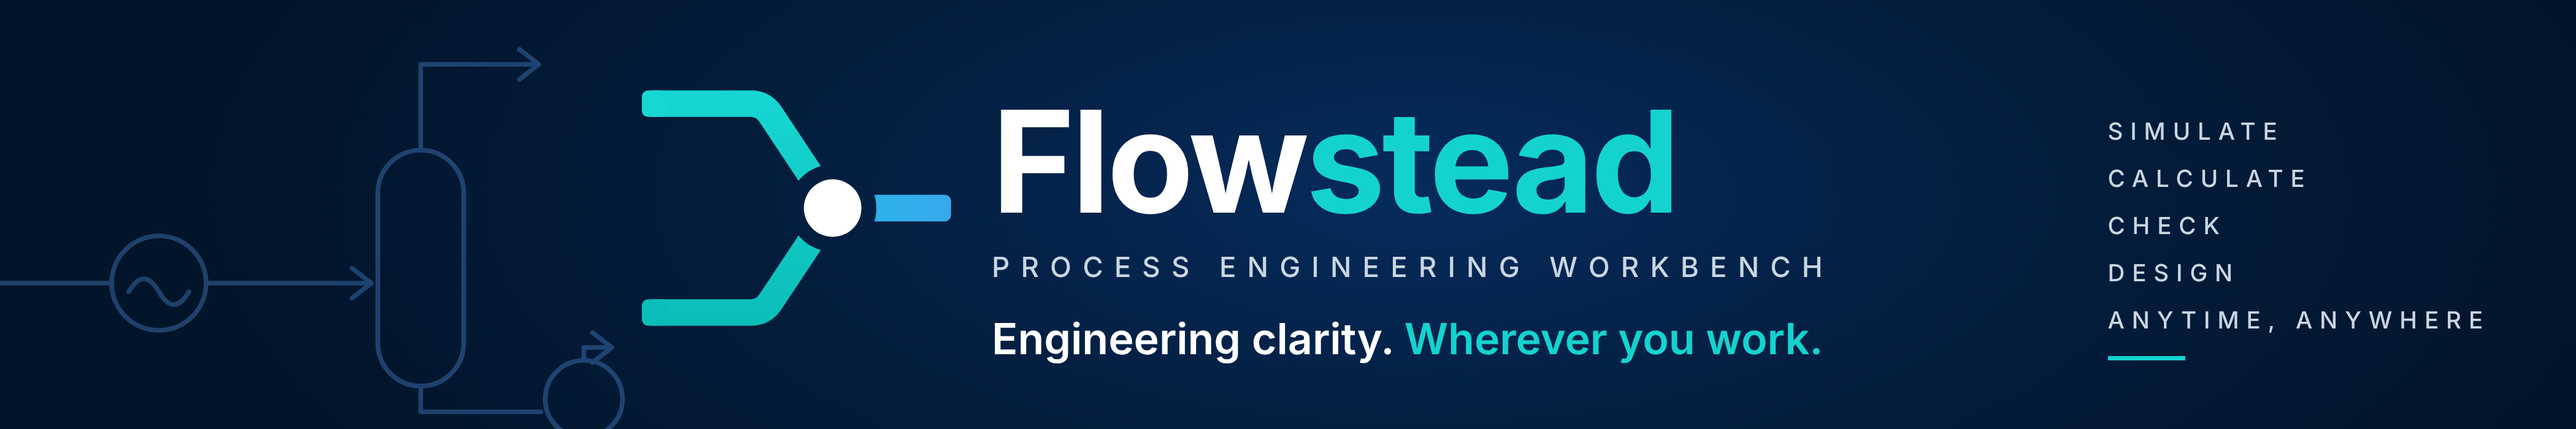
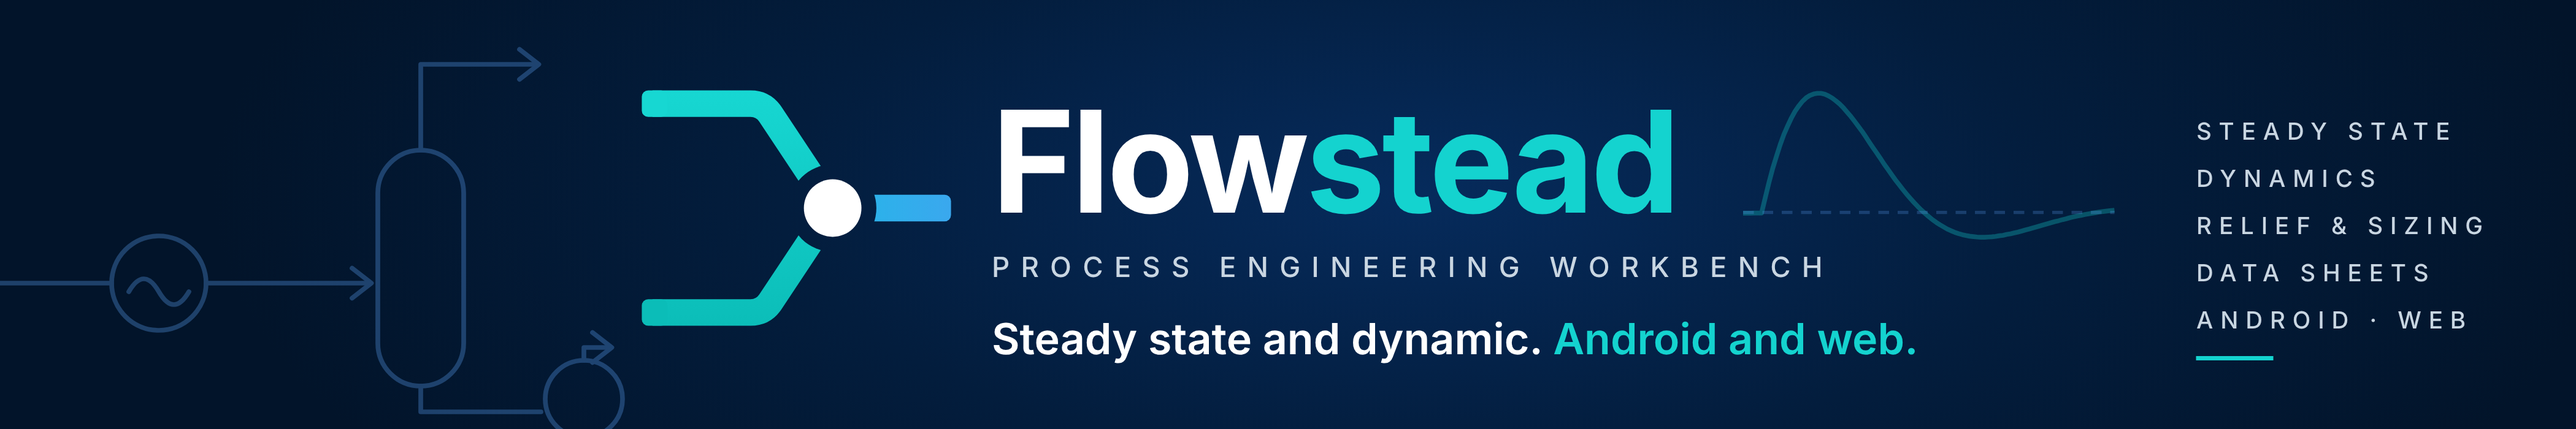
LinkedIn: page tagline and About (steady state and dynamic, Android and web) and a new cover
Claude-Session: https://claude.ai/code/session_01HZRB96Aqg1V3VJki8fwms8

diff --git a/docs/linkedin/src/cover.html b/docs/linkedin/src/cover.html
@@ -1,5 +1,5 @@
 <!doctype html>
-<!-- LinkedIn page cover, 6:1 (rendered 4200×700). Desktop puts the page logo over the bottom-left and phones crop the sides,
+<!-- LinkedIn page cover (steady state and dynamic, Android and web), 6:1 (rendered 4200×700). Desktop puts the page logo over the bottom-left and phones crop the sides,
      so the lockup sits right of centre and the left quarter carries only background lines. Render: node src/render.js -->
 <html><head><meta charset="utf-8"><script src="mark.js"></script><style>
 @font-face{font-family:Inter;font-weight:700;src:url(../../../android/app/src/main/res/font/inter_bold.ttf)}
@@ -32,12 +32,14 @@ html,body{margin:0;width:1200px;height:200px;overflow:hidden;background:#02172C}
     <path d="M272 168v-6h12"/><path d="M276 155l9 7-9 7"/>
   </g>
 </svg>
+<!-- The engine's own separator-pressure response to a feed step (benchmarks/20-separator-dynamics), faint behind the lockup's right edge. -->
+<svg class="flow" width="1200" height="200" viewBox="0 0 1200 200" fill="none"><path d="M812.0,99.4 L813.7,99.4 L815.5,99.4 L817.2,99.3 L818.9,99.3 L820.6,99.3 L822.4,91.8 L824.1,84.9 L825.8,78.5 L827.6,72.7 L829.3,67.4 L831.0,62.7 L832.8,58.6 L834.5,55.0 L836.2,51.9 L838.0,49.3 L839.7,47.2 L841.4,45.6 L843.1,44.5 L844.9,43.8 L846.6,43.5 L848.3,43.5 L850.1,43.9 L851.8,44.7 L853.5,45.7 L855.2,47.0 L857.0,48.5 L858.7,50.2 L860.4,52.2 L862.2,54.3 L863.9,56.5 L865.6,58.8 L867.4,61.2 L869.1,63.7 L870.8,66.3 L872.5,68.8 L874.3,71.4 L876.0,73.9 L877.7,76.5 L879.5,79.0 L881.2,81.4 L882.9,83.8 L884.7,86.1 L886.4,88.3 L888.1,90.4 L889.9,92.5 L891.6,94.4 L893.3,96.2 L895.0,97.9 L896.8,99.5 L898.5,101.0 L900.2,102.4 L902.0,103.7 L903.7,104.8 L905.4,105.8 L907.1,106.8 L908.9,107.6 L910.6,108.3 L912.3,108.9 L914.1,109.4 L915.8,109.8 L917.5,110.1 L919.3,110.3 L921.0,110.5 L922.7,110.6 L924.5,110.6 L926.2,110.5 L927.9,110.4 L929.6,110.2 L931.4,109.9 L933.1,109.7 L934.8,109.3 L936.6,109.0 L938.3,108.6 L940.0,108.2 L941.8,107.7 L943.5,107.2 L945.2,106.8 L946.9,106.3 L948.7,105.8 L950.4,105.3 L952.1,104.8 L953.9,104.3 L955.6,103.8 L957.3,103.3 L959.0,102.9 L960.8,102.4 L962.5,102.0 L964.2,101.5 L966.0,101.1 L967.7,100.7 L969.4,100.4 L971.2,100.0 L972.9,99.7 L974.6,99.4 L976.4,99.1 L978.1,98.8 L979.8,98.6 L981.5,98.4 L983.3,98.2 L985.0,98.0" stroke="#14D3CF" stroke-opacity=".30" stroke-width="2.2" stroke-linejoin="round"/><path d="M812 99.0H985" stroke="#5A9FF2" stroke-opacity=".25" stroke-width="1.5" stroke-dasharray="5 4"/></svg>
 <svg class="mark" width="150" height="114" viewBox="10 9.5 151 114" xmlns="http://www.w3.org/2000/svg" id="mk"></svg>
 <div class="lock">
   <div class="name">Flow<span>stead</span></div>
   <div class="sub">PROCESS ENGINEERING WORKBENCH</div>
 </div>
-<div class="tag">Engineering clarity. <span>Wherever you work.</span></div>
-<div class="verbs">SIMULATE<br>CALCULATE<br>CHECK<br>DESIGN<br>ANYTIME, ANYWHERE<i></i></div>
+<div class="tag">Steady state and dynamic. <span>Android and web.</span></div>
+<div class="verbs">STEADY STATE<br>DYNAMICS<br>RELIEF &amp; SIZING<br>DATA SHEETS<br>ANDROID · WEB<i></i></div>
 </div>
 <script>document.getElementById('mk').innerHTML = flowsteadMark(BLUE_OUTLET);</script></body></html>

diff --git a/docs/linkedin/page-text.md b/docs/linkedin/page-text.md
@@ -1,28 +1,33 @@
 # LinkedIn page text
 
-Paste into the page's edit dialog. LinkedIn's limits: tagline 120 characters, About 2,000.
+Paste into the company page's edit dialog. LinkedIn's limits: tagline 120 characters, About 2,000.
 
-## Tagline (106 characters)
+## Tagline (95 characters)
 
-Open-source process simulator for Android and the web, built on DWSIM. Flowsheets, relief and line sizing.
+```text
+Open-source steady-state and dynamic process simulator for Android and the web, built on DWSIM.
+```
 
-## About (1645 characters)
+## About (1813 characters)
 
-Flowstead is a free, open-source process simulator for process engineers. It runs on Android phones and, since November 2026, in any browser (iPhone, iPad, desktop) with nothing to install: the web version runs the same engine on your own device, with no server, and nothing you type leaves it.
+```text
+Flowstead is a free, open-source process simulator for process engineers, for steady state and dynamics. It runs on Android phones and in any browser (iPhone, iPad, desktop) with nothing to install: the web version runs the same engine on your own device, with no server, and nothing you type leaves it.
 
-Every number comes from the DWSIM 10.2.12 engine. Flowstead never shows a value the engine did not return, and each result is checked in a test against an independent reference: a hand calculation, steam tables, the standard's worked example, or a HYSYS value.
+Every number comes from the DWSIM 10.2.12 engine. Flowstead never shows a value the engine did not return, and each result is checked in a test against an independent reference: a hand calculation, steam tables, a standard's worked example or a HYSYS value.
 
 What you can do with it
-• Build and solve steady-state and dynamic flowsheets: separators, compressor and cooler trains, valves, pipelines (Beggs & Brill), columns, reactors, recycles and PID control.
-• Pump and compressor curves, valve sizing (IEC 60534), exchanger zone analysis, line and separator sizing (API 14E).
+• Steady-state flowsheets: separators, compressor and cooler trains, valves, pipelines (Beggs & Brill), columns, reactors and recycles.
+• Dynamic simulation: run a solved flowsheet through time with PID controllers (level, pressure, temperature, flow), step a feed, a valve or a setpoint, and read the trends.
+• Relief and safety: PSV sizing (API 520/526), relief scenarios and depressuring (API 521), inlet-loss and back-pressure checks. The fire-case PSV of a wet air receiver reproduces the HYSYS orifice.
 • Phase envelopes with quality lines, hydrate curves and inhibitor doses, wet-gas water dew lines, and a PVT laboratory.
-• Safety: PSV sizing (API 520/526), relief scenarios and depressuring (API 521), inlet-loss and back-pressure checks. The fire-case PSV of a wet air receiver reproduces the HYSYS orifice.
+• Pump and compressor curves, valve sizing (IEC 60534), line and separator sizing (API 14E).
 • Data sheets, PFD and heat and material balances as PDF or Excel.
 
-Android: signed APKs on GitHub Releases (43 releases so far). Web: https://hazemmancy.github.io/Flowstead/flowsheet.html
+Android: signed APKs on GitHub Releases. Web: https://hazemmancy.github.io/Flowstead/ (stream workbench) and https://hazemmancy.github.io/Flowstead/flowsheet.html (flowsheet).
 Source (GPL-3.0): https://github.com/HazemMancy/Flowstead
 
-Created and maintained by Hazem ElMancy, Oil & Gas Process Engineer, Aspen HYSYS Certified Expert User. Flowstead is a screening and checking tool: confirm design results against your project's approved methods.
+Created by Hazem ElMancy, Oil & Gas Process Engineer and Aspen HYSYS Certified Expert User. Flowstead is a screening and checking tool: confirm design results against your project's approved methods.
+```
 
 ## Website field
 
@@ -30,4 +35,4 @@ https://hazemmancy.github.io/flowstead.html
 
 ## Images
 
-`cover-4200x700.png` (cover), `logo-400.png` (logo), `featured-1200x627.png` (profile Featured link), `post-pocket-1200x1500.png` (feed post). `featured` and `post-pocket` now mention the browser version.
+`cover-4200x700.png` (cover: "Steady state and dynamic. Android and web.", with the engine's own pressure response to a feed step behind the lockup), `logo-400.png` (logo). For the founder role's media see `role-text.md`.
